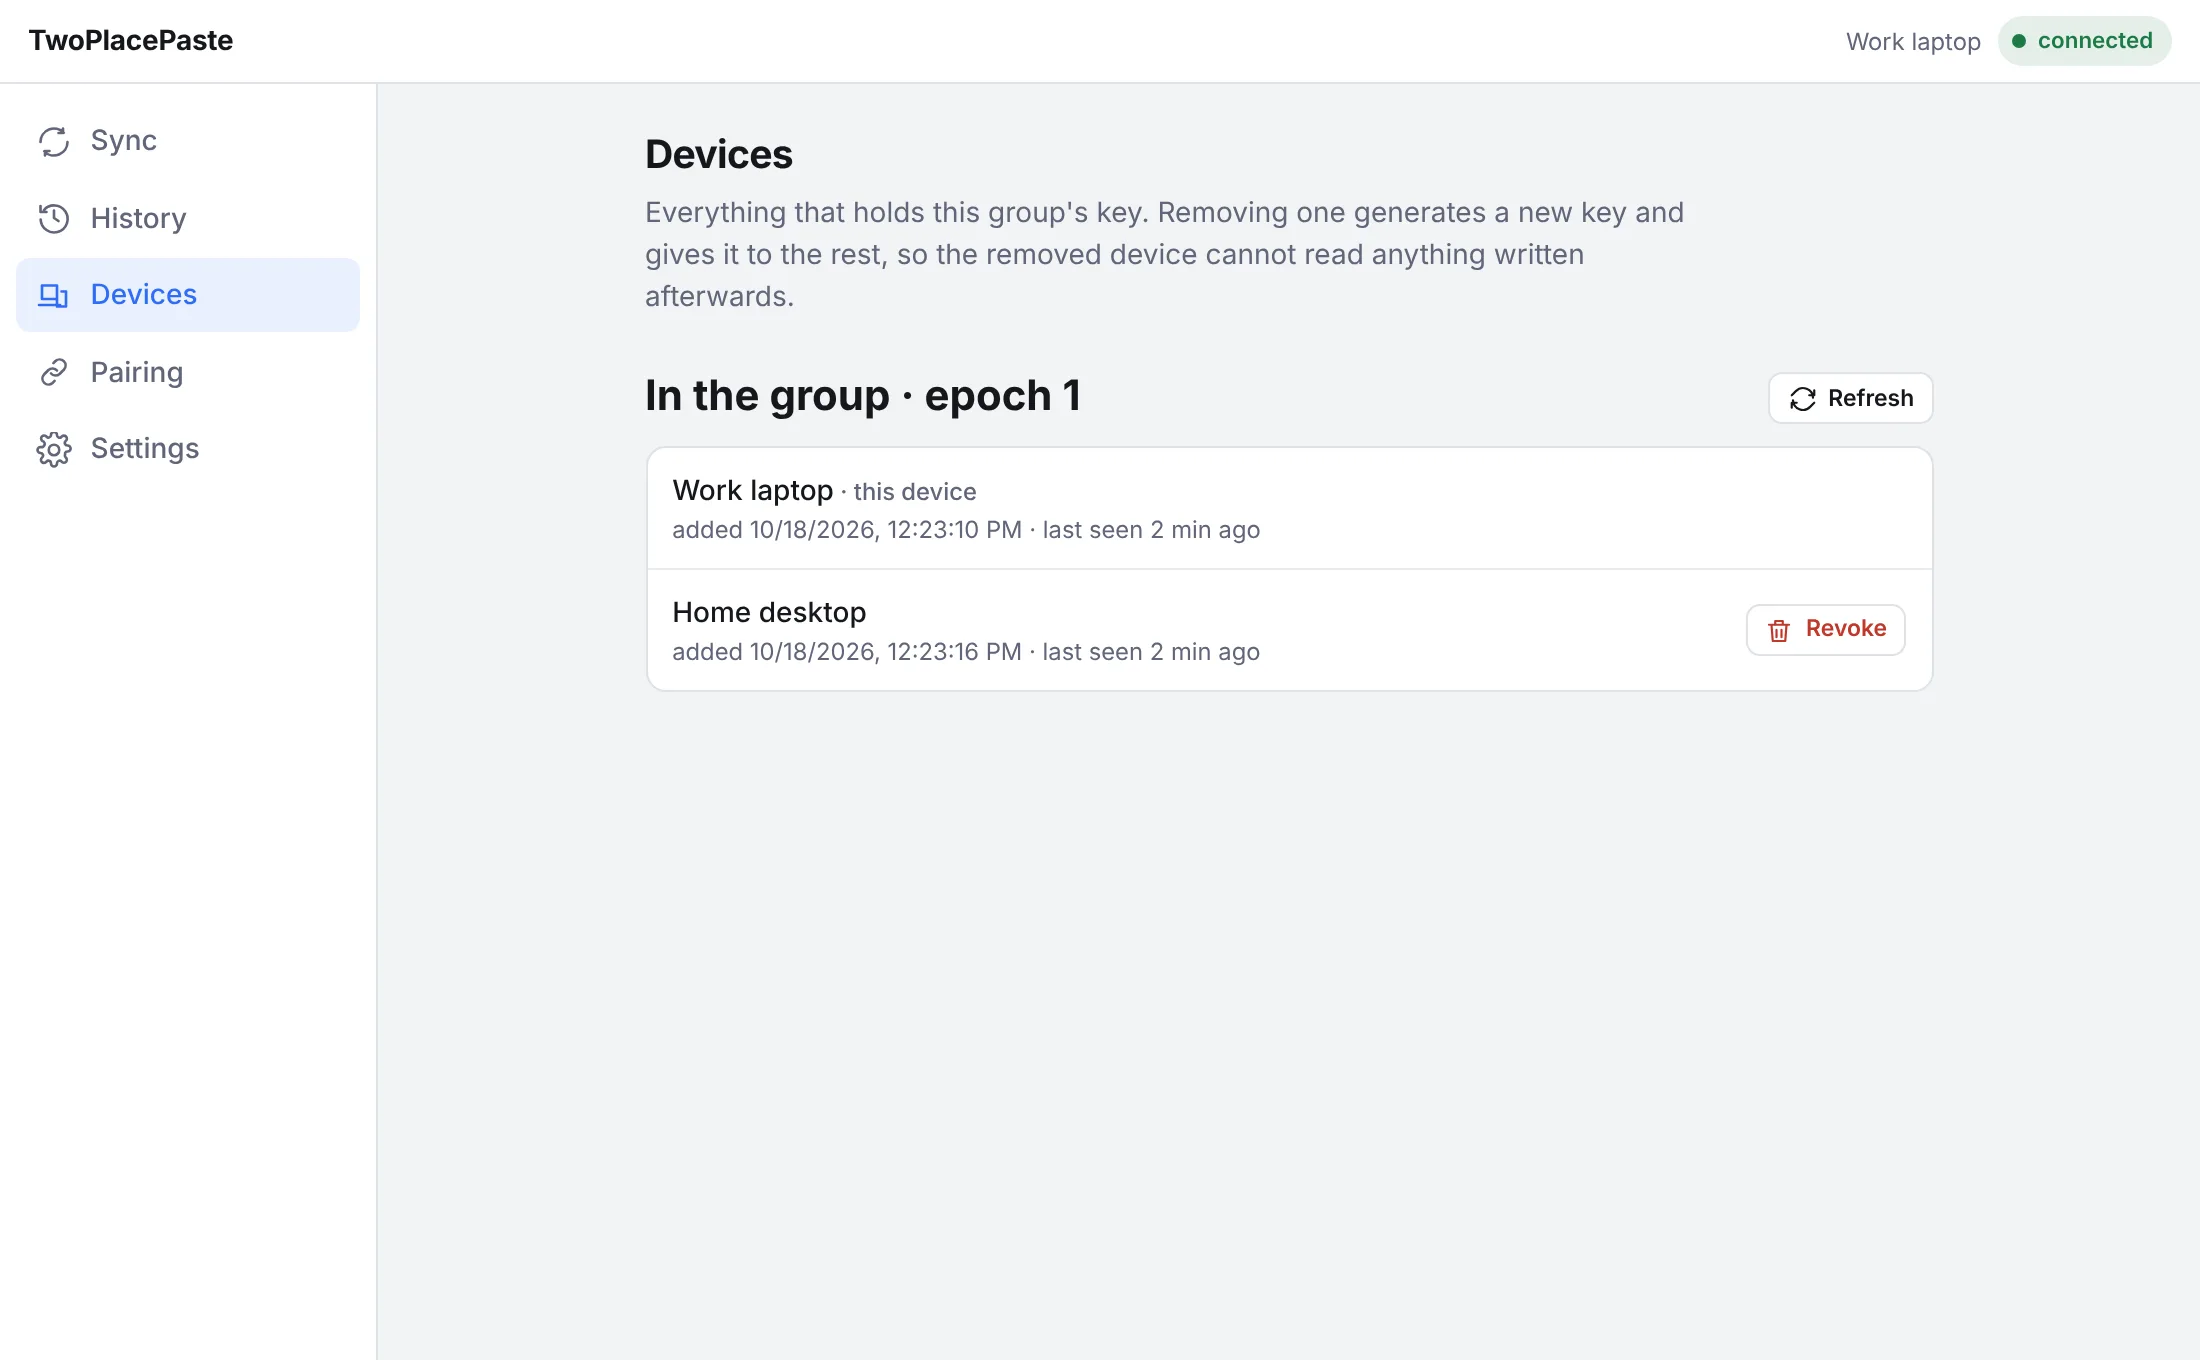
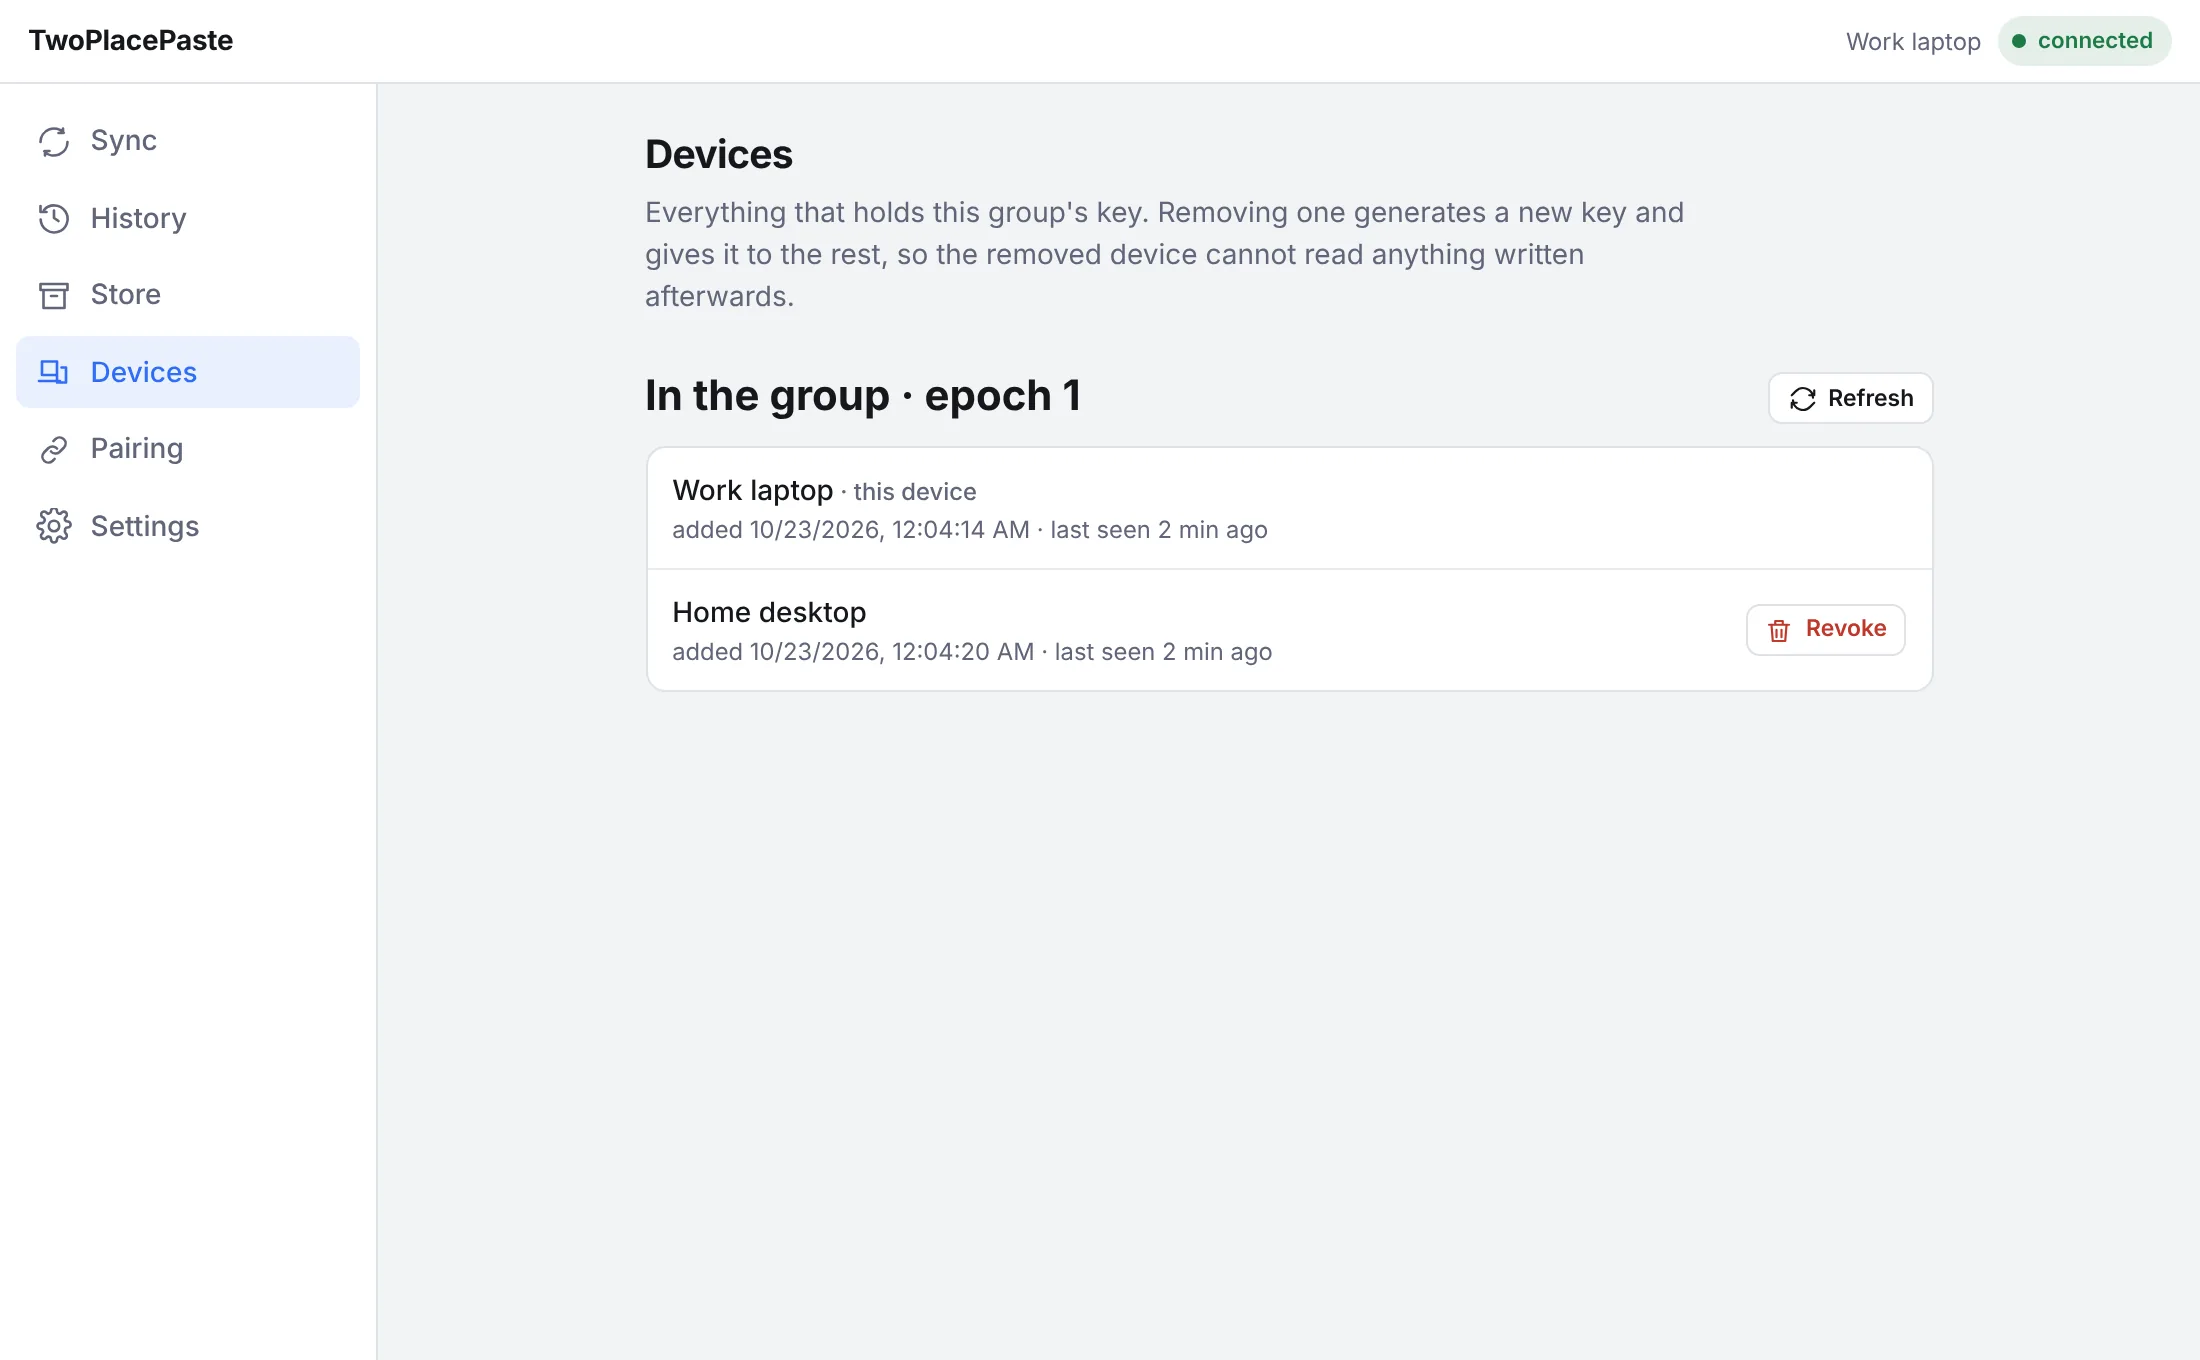
Mark the persistent store done and retake desktop screenshots
- ROADMAP: the store is P11, done across #40 and #42-#47, with a note
  on how it landed and why it does not break the rule against extending
  an entry's lifetime: saving copies an entry, which keeps its own 24
  hours.
- The store plan's status says every step has landed.
- Retake the desktop Sync, sync direction, Devices, revoke, pairing
  code, no-group Pairing and Settings screenshots, which still showed
  the sidebar without the Store tab. They show the same states as
  before, from the built UI against a mocked local API.

Claude-Session: https://claude.ai/code/session_01AVZGeePkio3ffhMQ9yavpR

diff --git a/docs/internal/ROADMAP.md b/docs/internal/ROADMAP.md
@@ -21,6 +21,7 @@ request. Phases run in numeric order; only one pair of phases may overlap.
 | **P8** | Release — E2E, hardening, docs, artefacts | ▶ **Next** | P6, P7 |
 | **P9** | Storage — S3/MinIO blobs, storage limits, chunked transfer, admin dashboard | 🔍 **In review** (#26) | P3–P7 |
 | **P10** | Admin group management — rename, tags, limits, purge, delete, health, audit | 🔍 **In review** | P9 |
+| **P11** | Persistent store — items kept beyond the 24-hour history, per group | ✅ **Done** (#40, #42–#47) | P10 |
 
 **Only P6 and P7 may run at the same time** (different languages, disjoint directories,
 no shared file). Both are done, so P8 now runs on its own. Everything else is strictly
@@ -39,6 +40,14 @@ P10 is cross-cutting in the same way: the admin can now rename, tag, limit, purg
 delete groups, and the apps show a group's name and say when it was deleted. Its wire
 change went in first as its own PR (#35); the plan is
 [`docs/internal/plans/admin-group-management.md`](plans/admin-group-management.md).
+
+P11 is cross-cutting as well: a group can keep items that do not expire — searched,
+tagged and encrypted like everything else, readable across rekeys through a chain of
+store links, and off until the admin turns it on for the group (SPEC §4.6, §6b;
+spec/crypto.md §7a). It landed as one PR per step: crypto and spec (#40), header v2
+(#42), wire schema (#43), relay (#44), Go client core (#45), desktop (#46), and the
+TypeScript core with Android (#47). The plan is
+[`docs/internal/plans/persistent-store.md`](plans/persistent-store.md).
 
 ---
 
@@ -968,4 +977,5 @@ moving the risk onto the member, and the work split are in
 
 **Standing prohibition:** no pin, favourite or extend-TTL feature. Entry lifetimes are
 immutable and the entire §4.5 GC scheme depends on that. Any agent proposing one is
-redirected to the §4.5 invariant.
+redirected to the §4.5 invariant. The persistent store (P11) is not one: saving an entry
+to the store copies it, and the entry keeps its own 24 hours.

diff --git a/docs/internal/plans/persistent-store.md b/docs/internal/plans/persistent-store.md
@@ -1,21 +1,10 @@
 # Plan — Persistent store
 
-**Status:** agreed design. Step 1 of §10 (spec, vectors, client crypto) landed
-in #40. Header v2 is rolled out on its own, ahead of the store: the relay accepts
-it and says so in `EntryLimitsResponse.header_v2`, and both clients write it to
-a relay that does (#42). The store's wire schema is in `store.proto`, and both
-clients send the store link with every rekey (#43). The relay side of step 3 —
-records, limits, the admin switch and Purge store, the rekey link check, the
-item messages, background reclaim and the sweep — is in its own PR; the clients
-(steps 4–6) do not use it yet. The relay side landed in #44. Step 4 — the Go
-client core's store calls, events and StoreIndex — is in its own PR; the store's
-cross-client interop test comes with the TypeScript core in step 6. The Go core
-landed in #45 and the desktop Store tab in #46. Step 6 — the TypeScript core,
-the store interop suite and the Android Store screen — is in its own PR. §9 records the answered questions; §11 keeps the
-server-side copy as a later option.
-**Touches:** `/spec/**` (store section, header v2, vectors), `/proto/**`,
-`/server/**`, `/pkg/tppclient/**`, `/desktop/**`, `/mobile/**`, `/deploy/**`,
-`/docs/**`.
+**Status:** done. Every step of §10 has landed: spec, vectors and client crypto
+(#40), header v2 (#42), the wire schema and store links on rekey (#43), the relay
+(#44), the Go client core (#45), the desktop Store tab (#46), and the TypeScript core
+with the Android Store screen and the cross-client interop suite (#47). §9 records the
+answered questions; §11 keeps the server-side copy as a later option.
 
 ---
 
